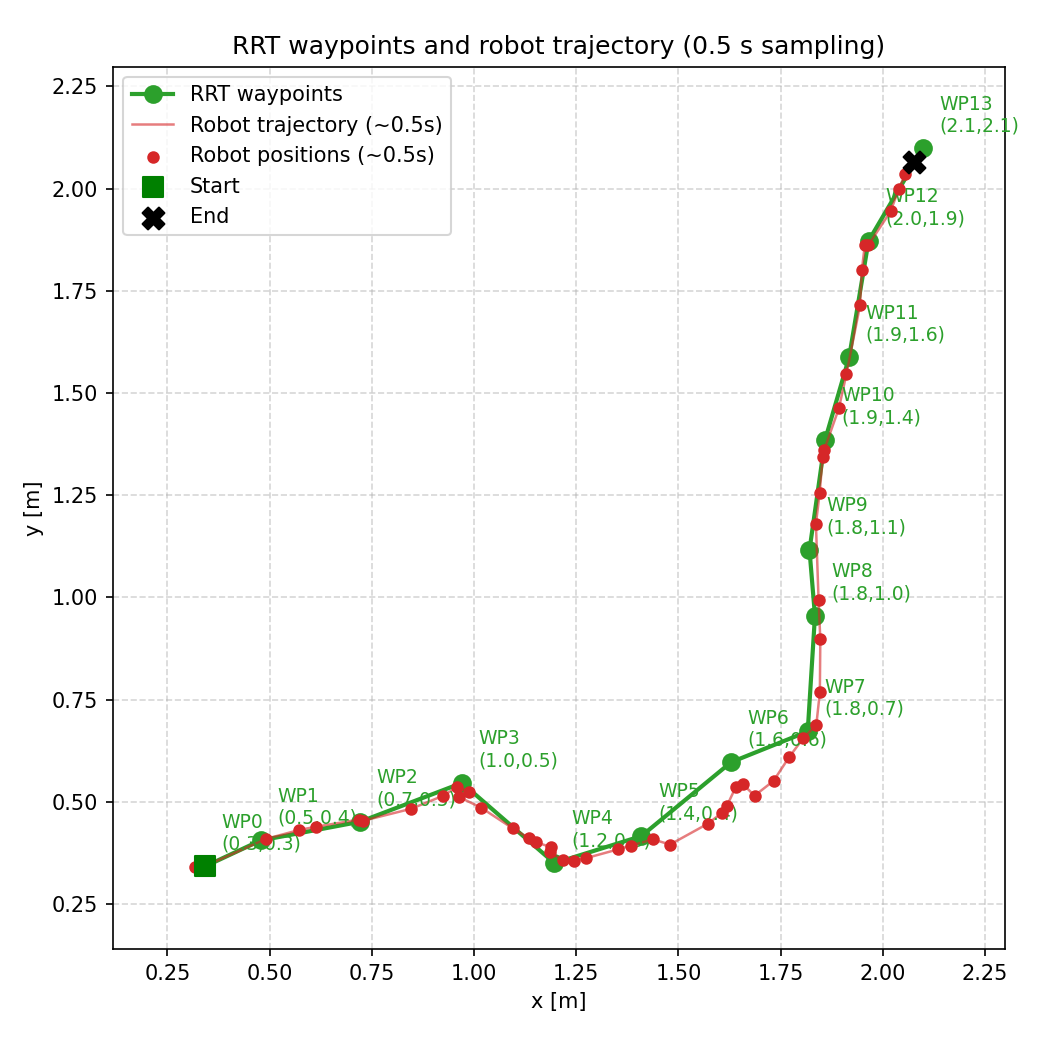
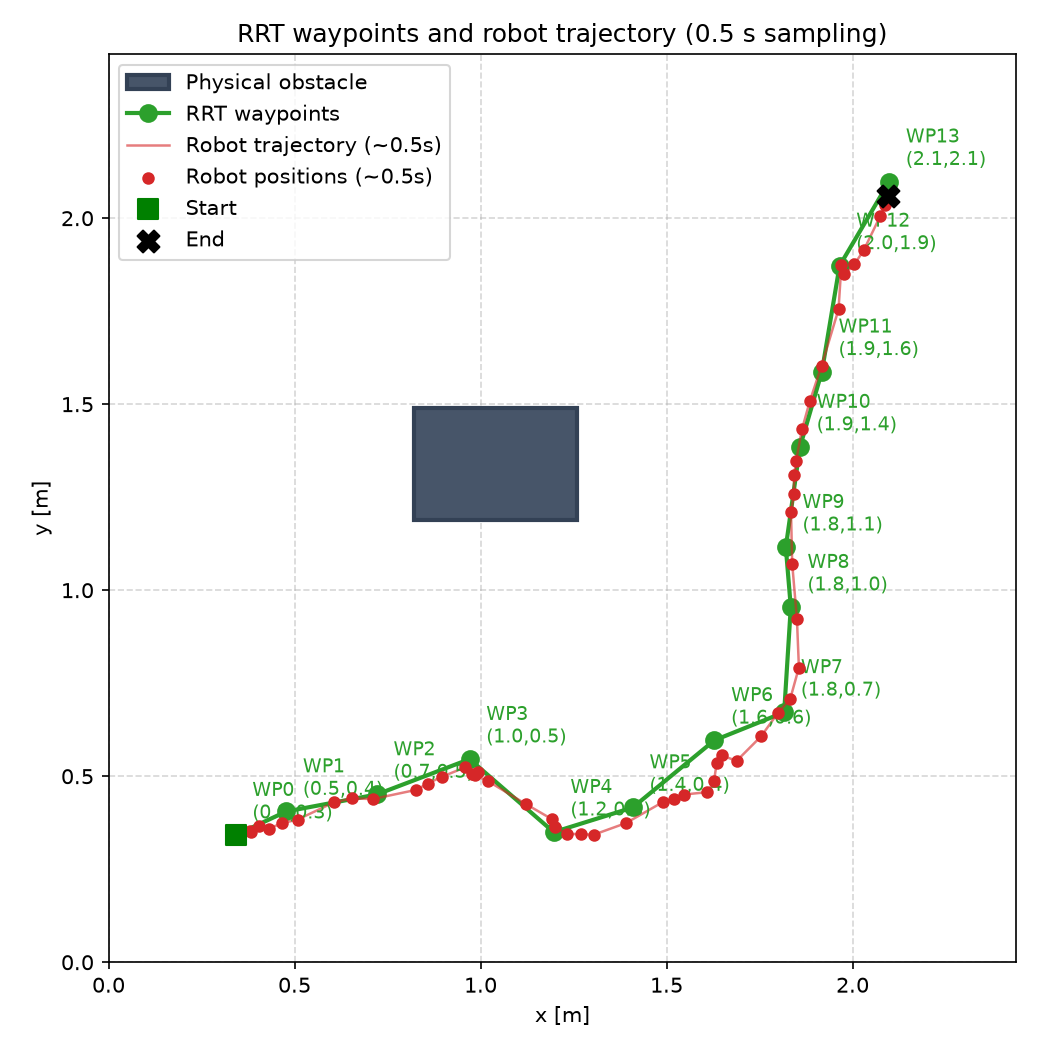
Update: graphs to show obstacle

diff --git a/plot_pos.py b/plot_pos.py
@@ -11,6 +11,7 @@ import sys
 import csv
 from pathlib import Path
 import matplotlib.pyplot as plt
+from matplotlib.patches import Rectangle
 import numpy as np
 
 # Import the local ROS-independent HW4 planning package.
@@ -18,6 +19,7 @@ sys.path.insert(0, str(Path(__file__).resolve().parent / 'hw4'))
 from hw4.visibility_graph import build_visibility_graph
 from hw4.dijkstra import shortest_path
 from hw4.path_waypoints import path_to_waypoints
+from hw4.map_geometry import OBSTACLE
 
 
 PLOT_INTERVAL = 0.5   # seconds between plotted robot positions
@@ -73,6 +75,18 @@ def main():
 
     fig, ax = plt.subplots(figsize=(7, 7))
 
+    # ---- Physical obstacle measured from the tag map ----
+    ax.add_patch(Rectangle(
+        (OBSTACLE.x_min, OBSTACLE.y_min),
+        OBSTACLE.x_max - OBSTACLE.x_min,
+        OBSTACLE.y_max - OBSTACLE.y_min,
+        facecolor='#475569',
+        edgecolor='#334155',
+        linewidth=2,
+        zorder=2,
+        label='Physical obstacle',
+    ))
+
     # ---- Current Dijkstra waypoint path ----
     wpx = waypoints[:, 0]
     wpy = waypoints[:, 1]
@@ -103,12 +117,8 @@ def main():
     ax.set_ylabel('y [m]')
     ax.set_title('Dijkstra path and robot trajectory (0.5 s sampling)')
     ax.legend(loc='best')
-
-    all_x = np.concatenate([wpx, xs_s])
-    all_y = np.concatenate([wpy, ys_s])
-    pad = 0.2
-    ax.set_xlim(all_x.min() - pad, all_x.max() + pad)
-    ax.set_ylim(all_y.min() - pad, all_y.max() + pad)
+    ax.set_xlim(0.0, 2.44)
+    ax.set_ylim(0.0, 2.44)
 
     plt.tight_layout()
     plt.savefig('trajectory_plot.png', dpi=150)

diff --git a/plot_rrt_pos.py b/plot_rrt_pos.py
@@ -9,10 +9,16 @@ Usage:
 
 import sys
 import csv
+from pathlib import Path
 import numpy as np
 import matplotlib
 matplotlib.use("Agg")
 import matplotlib.pyplot as plt
+from matplotlib.patches import Rectangle
+
+# Import the local ROS-independent HW4 planning package.
+sys.path.insert(0, str(Path(__file__).resolve().parent / 'hw4'))
+from hw4.map_geometry import OBSTACLE
 
 
 PLOT_INTERVAL = 0.5  # seconds between plotted robot positions
@@ -91,6 +97,18 @@ def main():
 
     fig, ax = plt.subplots(figsize=(7, 7))
 
+    # ---- Obstacle measured from the tag map ----
+    ax.add_patch(Rectangle(
+        (OBSTACLE.x_min, OBSTACLE.y_min),
+        OBSTACLE.x_max - OBSTACLE.x_min,
+        OBSTACLE.y_max - OBSTACLE.y_min,
+        facecolor='#475569',
+        edgecolor='#334155',
+        linewidth=2,
+        zorder=2,
+        label='Physical obstacle',
+    ))
+
     # ---- RRT waypoint path from the recorded run ----
     wpx = waypoints[:, 0]
     wpy = waypoints[:, 1]
@@ -122,11 +140,10 @@ def main():
     ax.set_title('RRT waypoints and robot trajectory (0.5 s sampling)')
     ax.legend(loc='best')
 
-    all_x = np.concatenate([wpx, xs_s])
-    all_y = np.concatenate([wpy, ys_s])
-    pad = 0.2
-    ax.set_xlim(all_x.min() - pad, all_x.max() + pad)
-    ax.set_ylim(all_y.min() - pad, all_y.max() + pad)
+    # Keep the full physical map in view; do not expand or inset the limits
+    # from the recorded trajectory or waypoint data.
+    ax.set_xlim(0.0, 2.44)
+    ax.set_ylim(0.0, 2.44)
 
     plt.tight_layout()
     plt.savefig('rrt_trajectory_plot.png', dpi=150)
